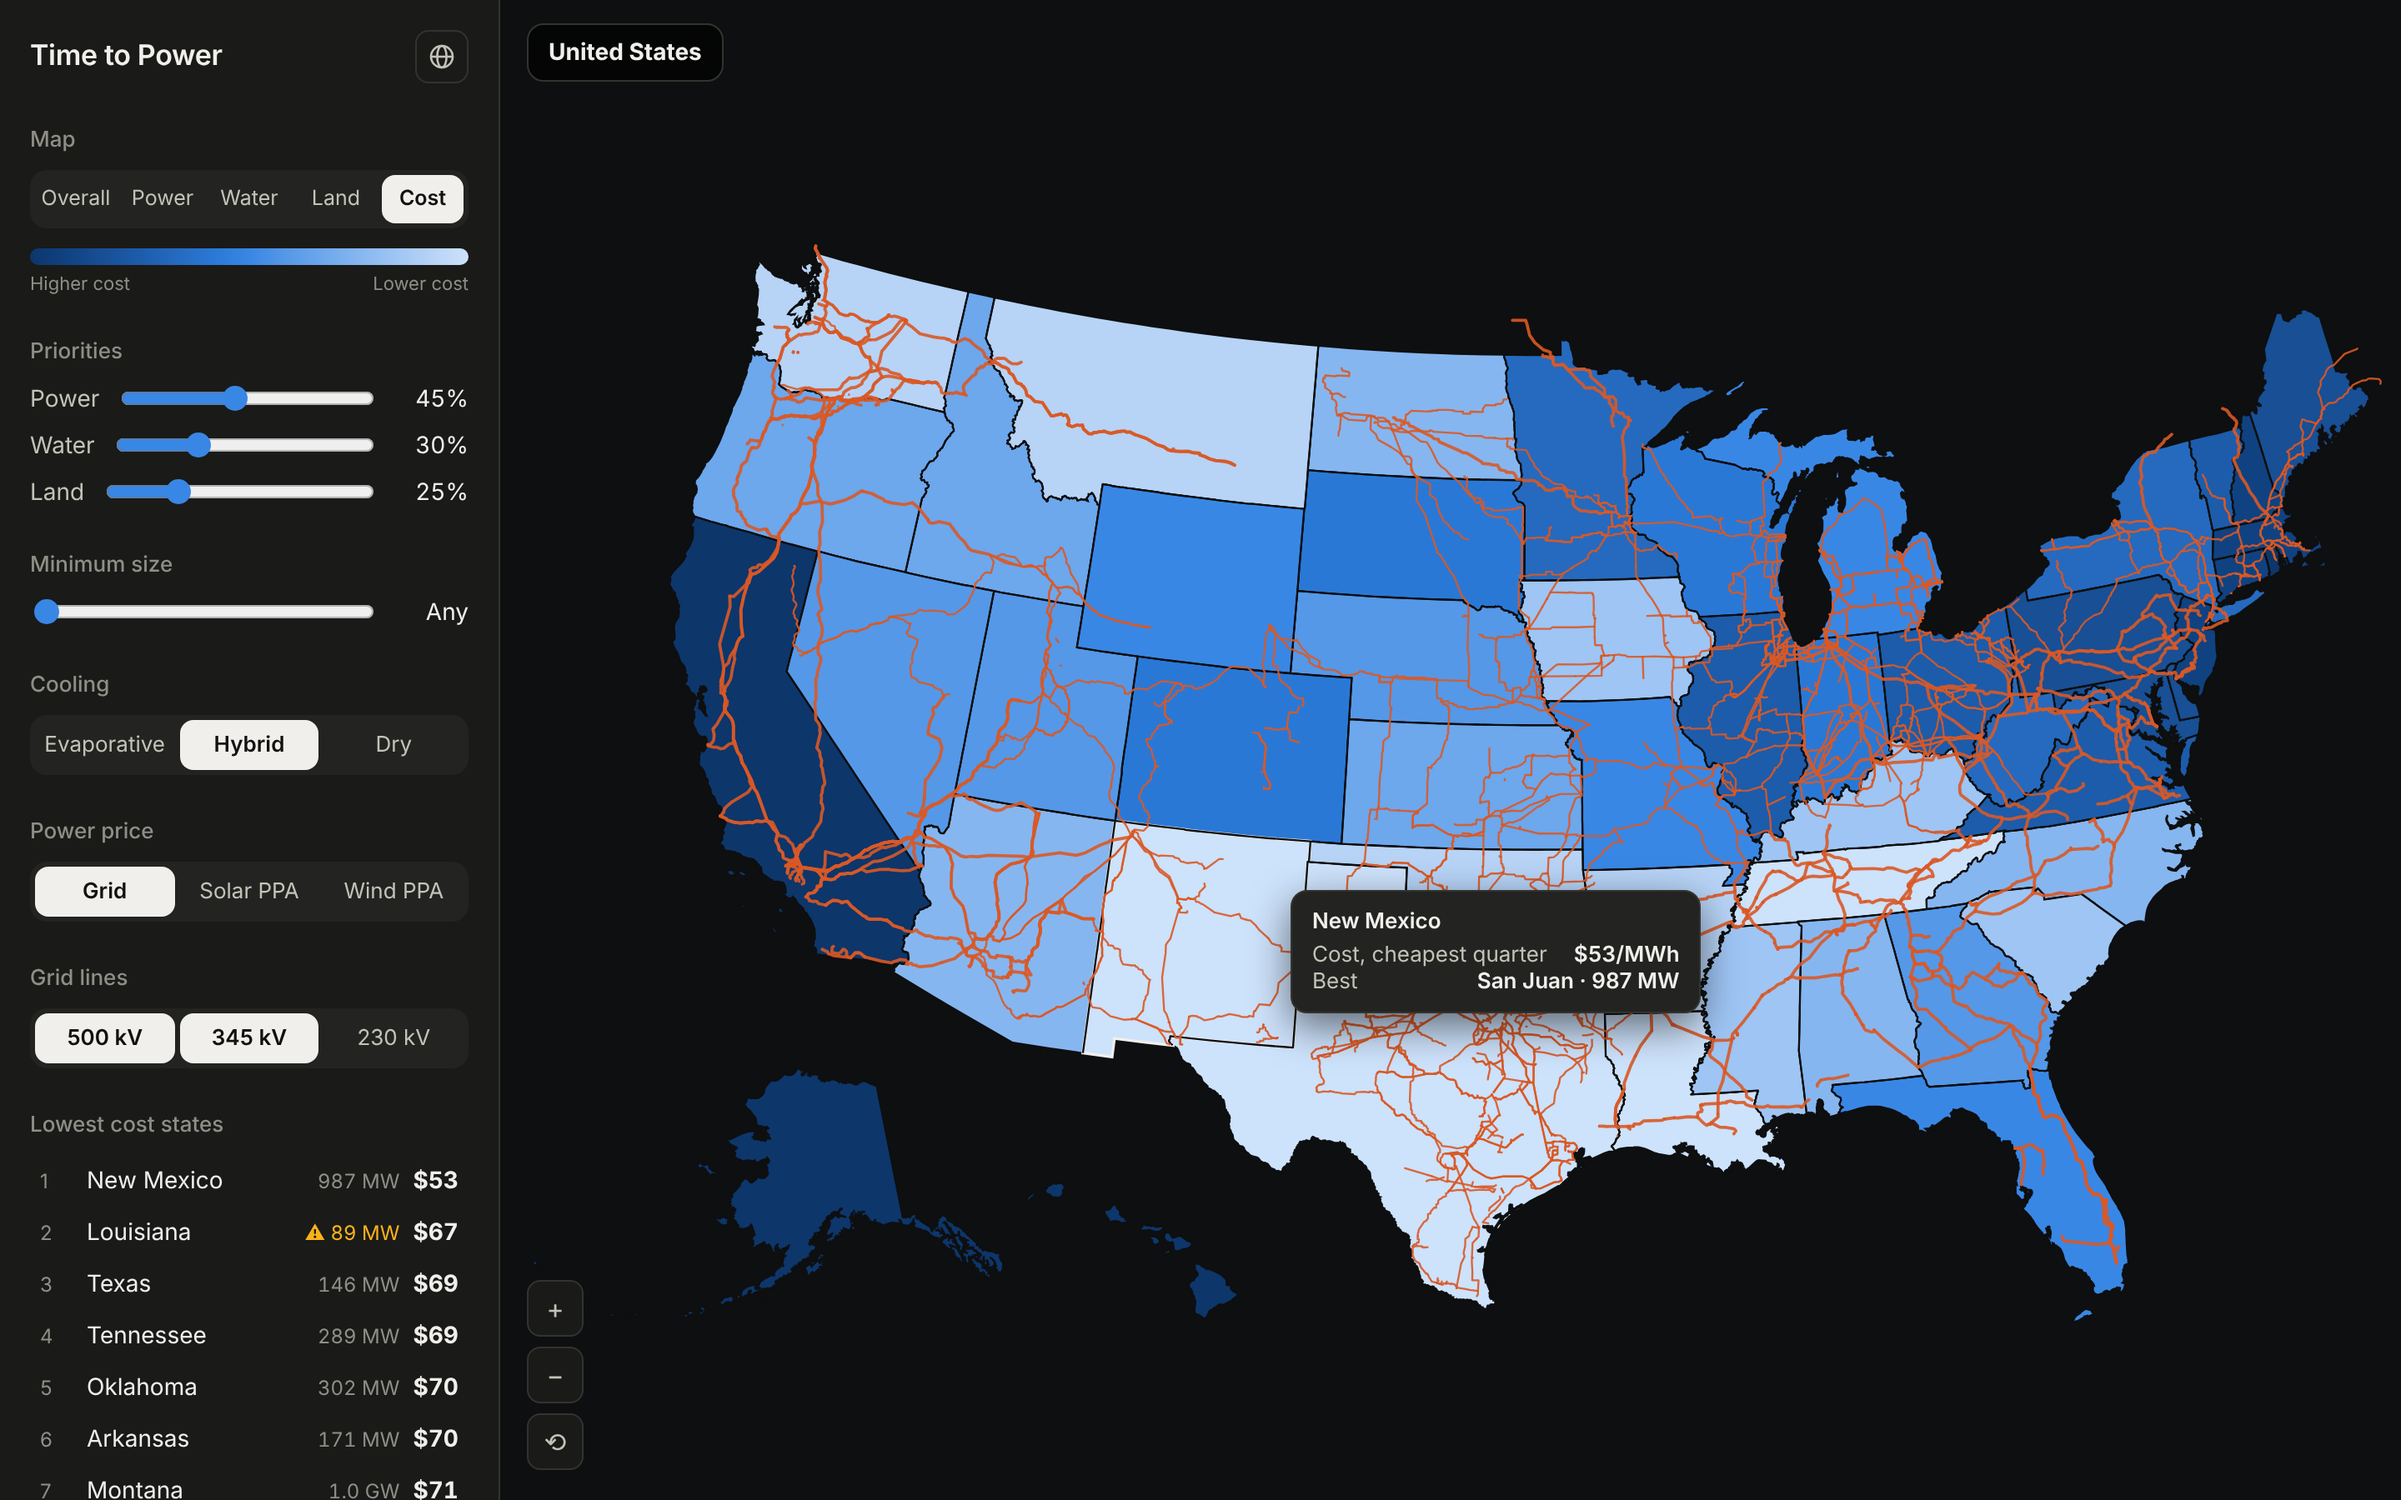
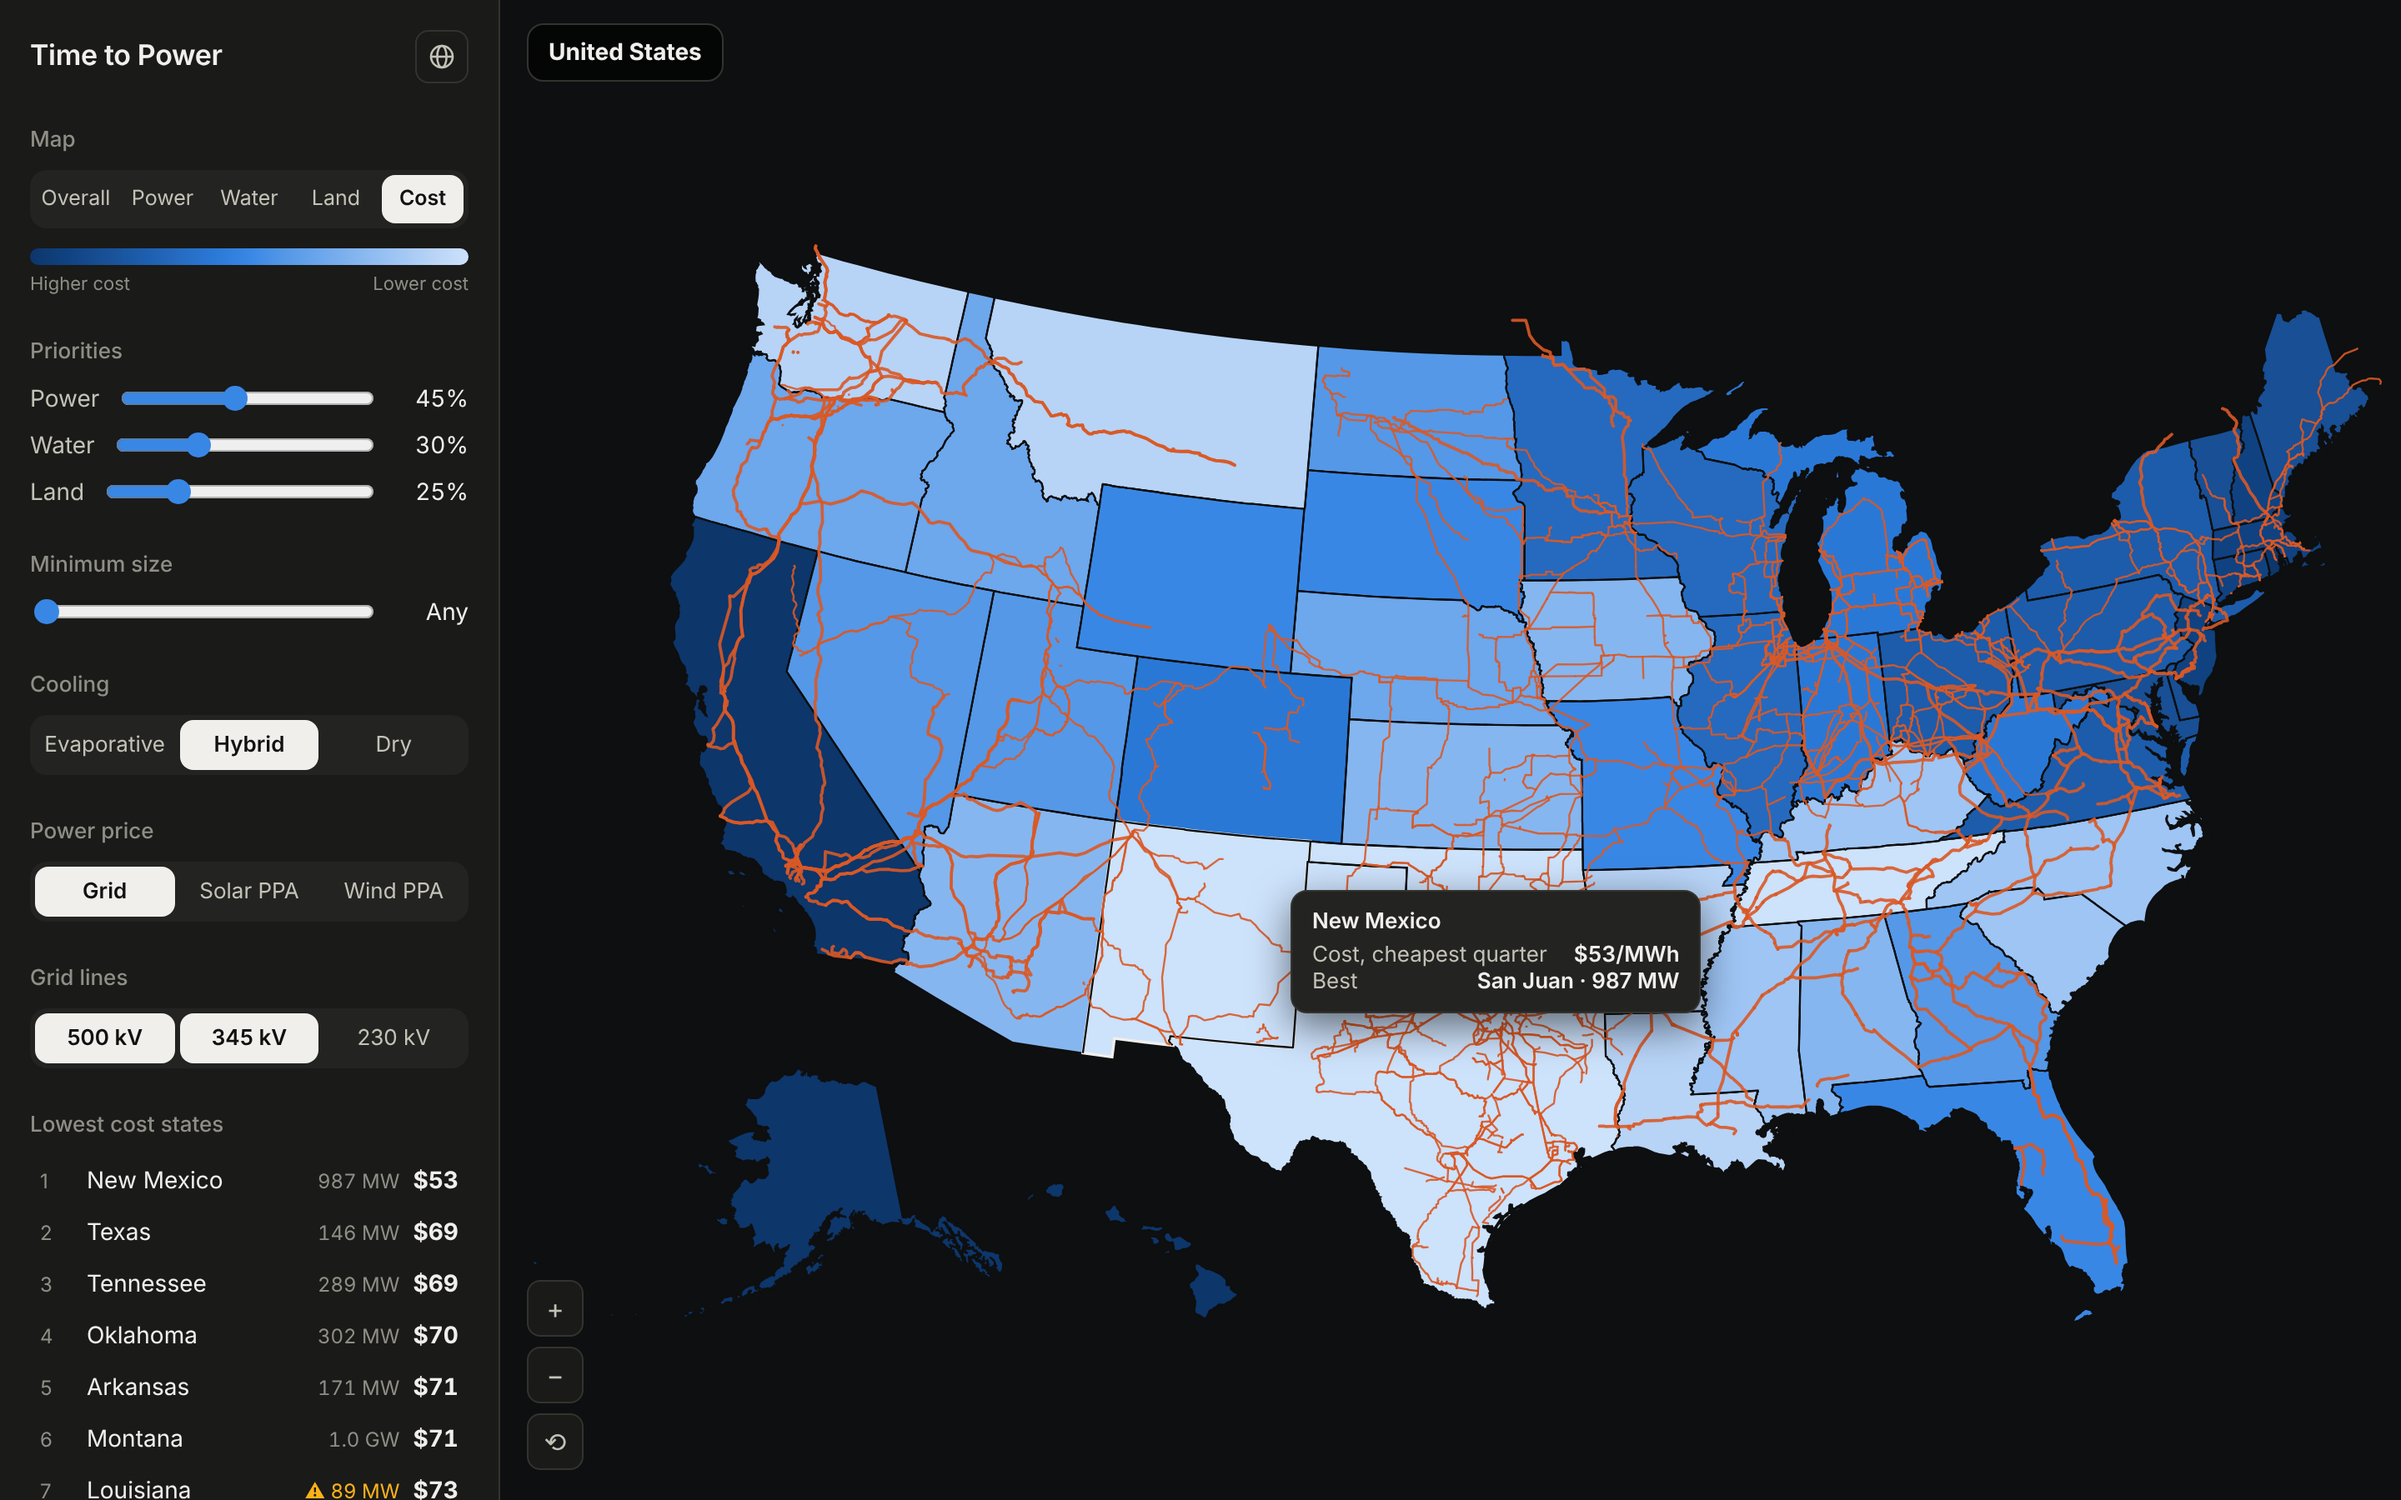
Price capacity in MISO, ISO-NE and NYISO too
MISO 2026/27 annualized $126/MW-day ($116 South), ISO-NE FCA 18
$117.70, NYISO $329 (estimate from summer 2026 spot). Added on top of
the state rate, flagged as erring high; ASSUMPTIONS C3 updated.

Claude-Session: https://claude.ai/code/session_01S8VxiTMQS6Uucjnfk55U5z

diff --git a/app/static/index.html b/app/static/index.html
@@ -271,7 +271,8 @@ const fmtTok = v => v >= 1e15 ? (v / 1e15).toFixed(1) + " quadrillion" : v >= 1e
 const LAYER_NAME = { score: "Overall", power_score: "Power", water_score: "Water", land_score: "Land", cost_score: "Cost" };
 const COOL_NAME = { evaporative: "Evaporative", hybrid: "Hybrid", closed_loop: "Dry" };
 const SRC_NAME = { transmission: "Power lines", generation: "Generation", water: "Water use", climate: "Climate", population: "Population",
-  land: "Land area", price: "Electricity price", tokens: "Tokens", capacity: "Capacity price", ppa: "PPA price", land_price: "Land price",
+  land: "Land area", price: "Electricity price", tokens: "Tokens", capacity: "Capacity, PJM", capacity_miso: "Capacity, MISO",
+  capacity_isne: "Capacity, ISO-NE", capacity_nyiso: "Capacity, NYISO", ppa: "PPA price", land_price: "Land price",
   land_premium: "Land premium" };
 // A county under this size can't host a large campus, whatever its score. Shown as a warning, never hidden by the score.
 let MIN_VIABLE = 100;   // replaced by facility.min_viable_mw from /api/config
@@ -636,8 +637,8 @@ async function openCounty(g, fly = false) {
           ? `${r.power_source_label} $${r.ppa_usd_mwh}/MWh + ${r.ppa_delivery_c}¢/kWh delivery (approx.)`
           : `${r.elec_ind_c.toFixed(2)}¢/kWh · ${r.STATE_NAME} industrial average`}</div></td><td class="num">${fmtMoney(r.energy_cost_year)}</td></tr>
         <tr><td>Capacity<div class="rng">${r.capacity_cost_year != null
-          ? `${r.capacity_where} · $${r.capacity_usd_mw_day.toFixed(0)}/MW-day${r.ba_est ? " · grid operator est." : ""}`
-          : `Not priced separately. Assumed inside the ${isPPA ? "delivery charge" : "state rate"}.`}</div></td><td class="num">${r.capacity_cost_year != null ? fmtMoney(r.capacity_cost_year) : "—"}</td></tr>
+          ? `${r.capacity_where} · $${r.capacity_usd_mw_day.toFixed(0)}/MW-day${r.capacity_est ? " · est." : ""}${r.ba_est ? " · grid operator est." : ""}`
+          : `No capacity market here. Assumed inside the ${isPPA ? "delivery charge" : "state rate"}.`}</div></td><td class="num">${r.capacity_cost_year != null ? fmtMoney(r.capacity_cost_year) : "—"}</td></tr>
         <tr><td>Water and sewer<div class="rng">$${r.water_rate.toFixed(2)} / 1,000 gal · ${r.water_rate_local
           ? r.water_price_source : `$${r.water_price.toFixed(2)} default × ${r.water_mult.toFixed(2)} for stress`} · sewer on ${Math.round(r.sewer_share * 100)}%</div></td><td class="num">${fmtMoney(r.water_cost_year + r.sewer_cost_year)}</td></tr>
         <tr><td>Land<div class="rng">${Math.round(r.capital_charge * 100)}% a year of ${fmtMoney(r.land_cost)} · ${fmt(r.land_acres)} acres × $${fmt(r.land_usd_acre)} × ${r.land_premium} (${kvName})${r.land_price_est ? " · US average" : ""}</div></td><td class="num">${fmtMoney(r.land_cost_year)}</td></tr>
@@ -707,7 +708,7 @@ async function openCounty(g, fly = false) {
         <dt>Capacity</dt><dd>The smallest of power, water and land, at ${Math.round(r.utilization * 100)}% average load.</dd>
         <dt>Scores</dt><dd>Percentiles against all US counties, weighted by your priorities.</dd>
         <dt>Energy</dt><dd>${r.ppa_usd_mwh != null ? `${r.power_source_label} at $${r.ppa_usd_mwh}/MWh plus ${r.ppa_delivery_c}¢/kWh delivery. Both approximate.` : "State industrial average rate (EIA, Jan–Aug 2026)."}</dd>
-        <dt>Capacity charge</dt><dd>PJM counties only, $${CFG.pricing.capacity_usd_per_mw_day.PJM}/MW-day (2027/28 auction). Elsewhere it is assumed inside the energy price. Part of it may already be in PJM state rates.</dd>
+        <dt>Capacity charge</dt><dd>Capacity-market price per MW-day, on top of the energy price: ${(() => { const c = CFG.pricing.capacity_usd_per_mw_day; return `PJM $${Math.round(c.PJM)}, MISO $${c.MISO} ($${c["MISO South"]} South), ISO-NE $${Math.round(c.ISNE)}, NYISO $${c.NYIS} (est.)`; })()}. Grids with no capacity market are assumed to carry it in the state rate. Part of it may already be in the rate, so this errs high.</dd>
         <dt>Water and sewer</dt><dd>$${CFG.water_price_default.toFixed(2)} per 1,000 gal default, × ${CFG.pricing.water_stress_multiplier.join(" to ")} by water stress. Sewer on ${Math.round(CFG.pricing.sewer_share_of_water * 100)}% of the water. Verified local rates are used as they are.</dd>
         <dt>Land</dt><dd>${CFG.acres_per_mw} acre per MW × state farmland value (USDA 2026) × a premium near big lines: ${["500", "345", "230", "0"].map(k => `×${CFG.pricing.land_premium_by_kv[k]} at ${k === "0" ? "none" : k + " kV"}`).join(", ")}. Carried at ${Math.round(CFG.pricing.capital_charge * 100)}% a year.</dd>
       </dl>

diff --git a/app/siting.py b/app/siting.py
@@ -5,7 +5,8 @@ Power MW  = MW by highest line voltage x (1 + planned-generation bonus - retirem
 Water MW  = 10% of public-supply withdrawals / water per MW (cooling design x local heat)
 Land MW   = open acres x 0.2% / 1 acre per MW
 Tokens/day = MW x utilization x 24 h / (Wh per 1,000 output tokens) x 1,000
-Cost/year  = energy (state rate, or PPA + delivery) + PJM capacity + water and sewer (default rate x stress)
+Cost/year  = energy (state rate, or PPA + delivery) + capacity-market price (PJM, MISO, ISO-NE, NYISO)
+             + water and sewer (default rate x stress)
              + capital charge x land (acres x state farmland $/acre x line-voltage premium)
 All assumptions: ASSUMPTIONS.md. All numbers: data/siting_factors.json.
 """
@@ -125,8 +126,10 @@ def priced(cooling: str = F["water"]["default_cooling"], power: str = F["pricing
     else:
         d["energy_usd_mwh"] = src["usd_mwh"] + sum(C["ppa_delivery_c_per_kwh"]) / 2 * 10
     d["energy_cost_year"] = mwh * d.energy_usd_mwh
-    # capacity: priced only where a market price applies (PJM); NaN = assumed inside the energy price
-    d["capacity_usd_mw_day"] = d.ba_fill.map(C["capacity_usd_per_mw_day"]).astype(float)
+    # capacity: priced where a capacity market sets it (PJM, MISO, ISO-NE, NYISO); NaN = inside the energy price
+    south = (d.ba_fill == "MISO") & d.STUSPS.isin(C["capacity_miso_south_states"])
+    d["capacity_key"] = d.ba_fill.where(~south, "MISO South")
+    d["capacity_usd_mw_day"] = d.capacity_key.map(C["capacity_usd_per_mw_day"]).astype(float)
     d["capacity_cost_year"] = mw * d.capacity_usd_mw_day * 365
 
     # water and sewer: default rate scaled by water stress; a verified local rate is used as it is
@@ -204,7 +207,8 @@ def detail(geoid: str, cooling: str, weights: dict[str, float], power: str = DEF
         "ppa_usd_mwh": src["usd_mwh"],
         "ppa_delivery_c": sum(C["ppa_delivery_c_per_kwh"]) / 2 if src["usd_mwh"] is not None else None,
         "elec_cost_year": r["energy_cost_year"],
-        "capacity_where": C["capacity_where"].get(r["ba_fill"]),
+        "capacity_where": C["capacity_where"].get(r["capacity_key"]),
+        "capacity_est": r["capacity_key"] in C["capacity_est"],
         "sewer_share": C["sewer_share_of_water"],
         "capital_charge": C["capital_charge"],
         "land_price_where": (f"{r['STATE_NAME']} farmland, USDA 2026" if not r["land_price_est"]

diff --git a/ASSUMPTIONS.md b/ASSUMPTIONS.md
@@ -48,7 +48,7 @@ Cost per year = energy + capacity + water and sewer + a yearly charge on the lan
 |---|---|---|
 | C1 | **Energy = MWh × the state industrial average rate (EIA, Jan–Aug 2026).** | Large campuses buy on industrial or large-load tariffs. A real tariff quote can differ a lot. |
 | C2 ⚑ | **PPA option: solar $60/MWh or wind $70/MWh, plus 2.25¢/kWh for delivery (the midpoint of 1.5–3¢).** | From the LevelTen Q2 2026 index, approximate because the full index is paid. A PPA covers energy only, so delivery is added. |
-| C3 ⚑ | **Capacity: PJM counties pay $333.44/MW-day × campus MW (2027/28 auction, RTO-wide, at the cap). Other grids are assumed to be inside the energy price.** | Source: [PJM, Dec 17 2025](https://insidelines.pjm.com/pjm-auction-procures-134479-mw-of-generation-resources/). MISO, ISO-NE and NYISO run capacity markets too but aren't priced yet. Part of the PJM price is already in 2026 state rates, so this may double count some of it. |
+| C3 ⚑ | **Capacity: campus MW × the capacity-market price per MW-day, added on top of the state rate.** PJM $333.44 (2027/28 auction, RTO-wide, at the cap). MISO $126 North/Central and $116 South (2026/27 auction, annualized; South = MISO counties in AR, LA, MS, TX). ISO-NE $117.70 (FCA 18 for 2027/28, $3.58/kW-month, preliminary). NYISO $329, an estimate (summer 2026 spot of about $10/kW-month for Long Island and rest of state). Grids with no capacity market (ERCOT, SPP, the Southeast and West utilities) are assumed to carry it in the state rate. | Sources: [PJM](https://insidelines.pjm.com/pjm-auction-procures-134479-mw-of-generation-resources/), [MISO via mgrid](https://mgrid.org/2026/04/28/miso-2026-27-capacity-auction-clears-at-126-mw-day-down-42/), [ISO-NE](https://isonewswire.com/?p=6422), [NYISO via Modo Energy](https://modoenergy.com/research/en/nyiso-capacity-prices-record-summer-2026). Part of each price is already in the state rate, so this errs high. The NYISO figure is a summer month used for the whole year, so it errs high too. |
 | C4 ⚑ | **882 counties have no grid operator on file (no generator there). They take the nearest county in the same state that has one.** | Shown as "est." in the app. |
 | C5 ⚑ | **The $6 default water rate is scaled ×0.75 (no stress) to ×1.5 (highest stress). Verified local rates are used as they are.** | Scarce water tends to cost more. A starting guess. |
 | C6 ⚑ | **Sewer is charged on 20% of the water volume, at the water rate.** | Cooling towers discharge part of what they take. |

diff --git a/README.md b/README.md
@@ -59,7 +59,7 @@ Water MW   = 10% of public-supply water ÷ water per MW (cooling design × local
 Land MW    = open acres (from density) × 0.5% ÷ 1 acre per MW
 Campus MW  = min(Power, Water, Land)   → the smallest is the "limiting factor"
 Cost/year  = MWh × state industrial rate (or PPA + delivery)
-             + PJM capacity $333/MW-day × MW
+             + capacity-market price × MW (per MW-day: PJM $333, MISO $116–126, ISO-NE $118, NYISO $329 est.)
              + water and sewer ($6 per 1,000 gal default × 0.75–1.5 by water stress, sewer on 20%)
              + 8% a year × land (1 acre/MW × state farmland $/acre × 1–25 near big lines)
 Tokens/day = Campus MW × 70% load × 24 h ÷ Wh per 1,000 output tokens × 1,000
